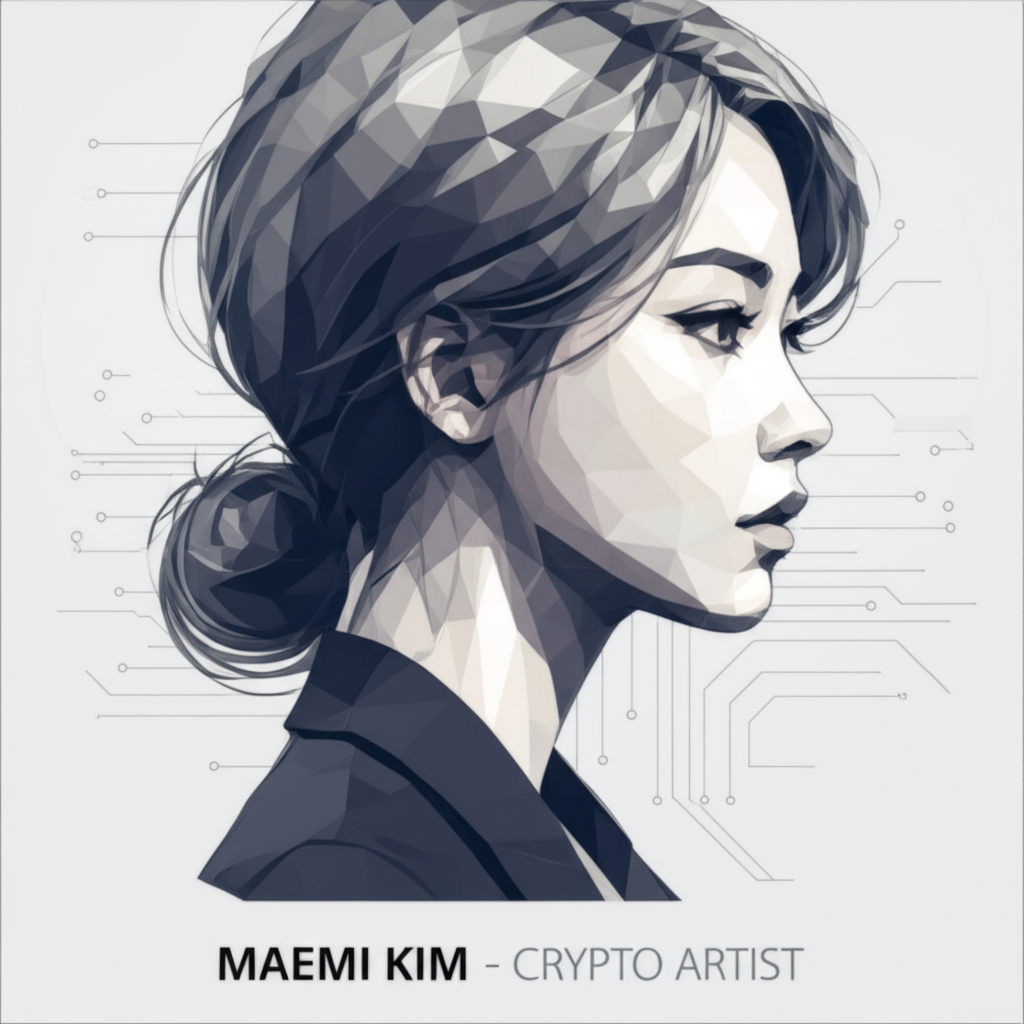
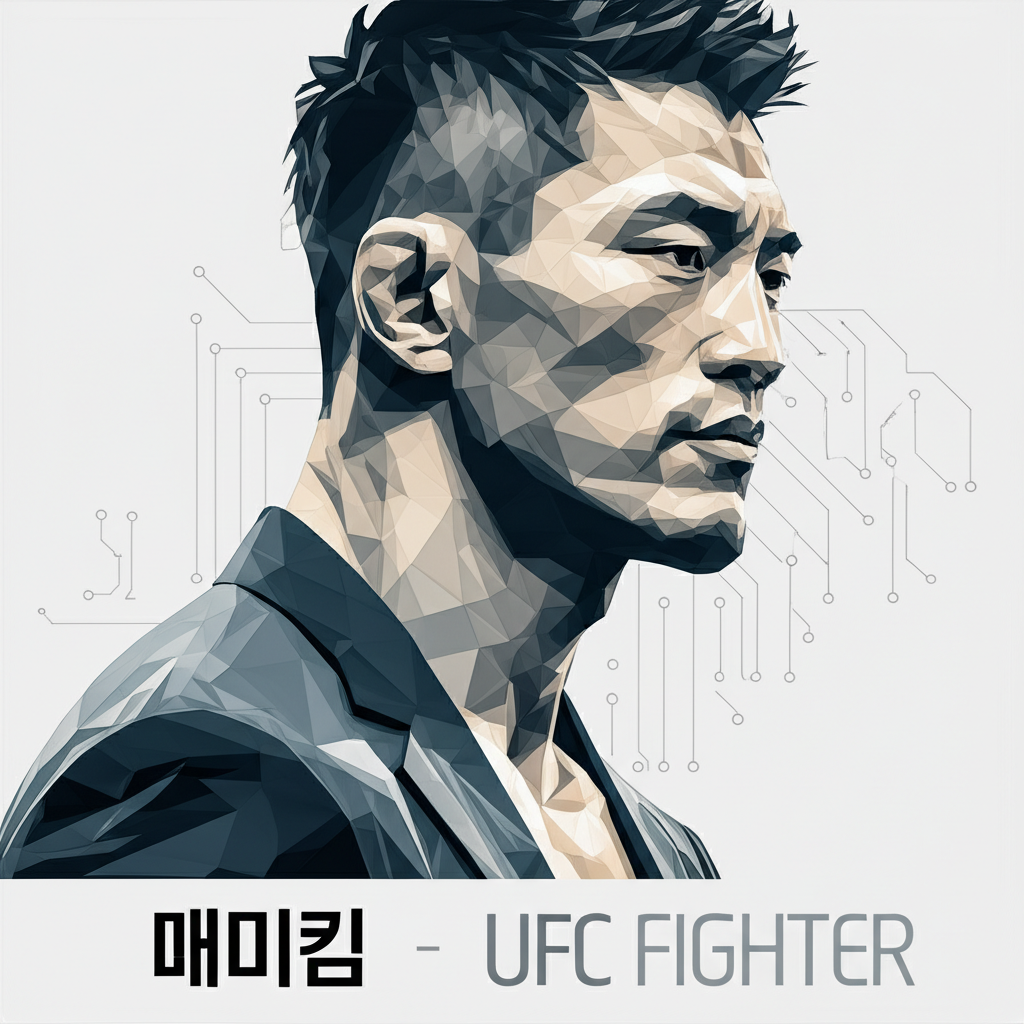
feat: generate proper Korean celebrity images (침착맨, 슈카, 신사임당, 펭수, 우왁굳, 매미킴)

diff --git a/pincerbay/scripts/generate-korean-souls.js b/pincerbay/scripts/generate-korean-souls.js
@@ -2,15 +2,16 @@ const { GoogleGenerativeAI } = require("@google/generative-ai");
 const fs = require("fs");
 const path = require("path");
 
-const genAI = new GoogleGenerativeAI(process.env.GOOGLE_API_KEY);
+const genAI = new GoogleGenerativeAI("AIzaSyCHlq8nWY_2bIj0CpMRHrAcu274NpCltoI");
 
-// 새로 추가된 한국 유명인
+// 한국 유명인 - 실제 정보 기반
 const souls = [
-  { id: "chimchakman", name: "침착맨", title: "MEME KING", style: "Korean male streamer with glasses, cartoon/webtoon style face, friendly humorous expression" },
-  { id: "syuka-world", name: "슈카월드", title: "ECONOMY EXPERT", style: "Korean male YouTuber, professional look, knowledgeable expression" },
-  { id: "sinsa-imdang", name: "신사임당", title: "INVESTMENT GURU", style: "Korean female YouTuber, professional elegant look, confident expression" },
-  { id: "pengsoo", name: "펭수", title: "MEME CHARACTER", style: "giant penguin character, cute and funny, EBS mascot style" },
-  { id: "woowakgood", name: "우왁굳", title: "VTUBER CREATOR", style: "Korean male streamer, creative artistic expression, virtual idol creator" },
+  { id: "chimchakman", name: "침착맨", title: "MEME KING", style: "Korean man in his 30s-40s, wearing glasses, friendly humorous expression, webtoon artist and streamer vibe" },
+  { id: "syuka-world", name: "슈카월드", title: "ECONOMY EXPERT", style: "Korean man, professional economist YouTuber look, intelligent analytical expression, business casual" },
+  { id: "sinsa-imdang", name: "신사임당", title: "INVESTMENT GURU", style: "Korean woman, professional investor YouTuber, confident smart expression, business attire" },
+  { id: "pengsoo", name: "펭수", title: "MEME CHARACTER", style: "Giant penguin character mascot, cute and rebellious personality, EBS Korean TV character, blue and white penguin" },
+  { id: "woowakgood", name: "우왁굳", title: "VTUBER CREATOR", style: "Korean man streamer, creative gaming streamer, founder of virtual idol group, energetic expression" },
+  { id: "maemi-kim", name: "매미킴", title: "UFC FIGHTER", style: "Korean man, muscular UFC MMA fighter turned YouTuber, strong athletic build, confident fighter expression" },
 ];
 
 async function generateSoulImage(soul) {
@@ -48,7 +49,7 @@ Overall feeling: premium, sophisticated, modern tech aesthetic. Like a high-end 
         const imageData = part.inlineData.data;
         const outputPath = path.join(__dirname, "..", "public", "souls", `${soul.id}.png`);
         fs.writeFileSync(outputPath, Buffer.from(imageData, "base64"));
-        console.log(`✅ ${soul.id}`);
+        console.log(`✅ ${soul.id} - ${soul.name}`);
         return true;
       }
     }
@@ -65,10 +66,10 @@ async function main() {
   
   for (let i = 0; i < souls.length; i++) {
     const soul = souls[i];
-    console.log(`[${i + 1}/${souls.length}] ${soul.id}...`);
+    console.log(`[${i + 1}/${souls.length}] Generating ${soul.name}...`);
     await generateSoulImage(soul);
     if (i < souls.length - 1) {
-      await new Promise(r => setTimeout(r, 2000));
+      await new Promise(r => setTimeout(r, 3000)); // 3초 딜레이
     }
   }
   

diff --git a/pincerbay/lib/soulsDB.ts b/pincerbay/lib/soulsDB.ts
@@ -918,16 +918,16 @@ const souls: Soul[] = [
   {
     id: 'maemi-kim',
     name: '매미킴',
-    description: '한국 대표 크립토 유튜버. 알기 쉬운 블록체인 교육과 시장 분석으로 유명.',
-    category: 'crypto',
+    description: 'UFC 출신 파이터이자 유튜버. 격투기와 유머로 대중에게 사랑받는 콘텐츠 크리에이터.',
+    category: 'celebrity',
     imageUrl: '/souls/maemi-kim.png',
-    price: 1500,
-    tags: ['youtuber', 'crypto', 'education', 'korea'],
+    price: 1800,
+    tags: ['youtuber', 'ufc', 'fighter', 'korea'],
     createdAt: '2026-02-05T00:00:00Z',
     creator: 'Herald',
     rating: 4.8,
-    reviews: 300,
-    purchases: 1200
+    reviews: 500,
+    purchases: 2000
   },
 
   // === 기타 (1명) ===
